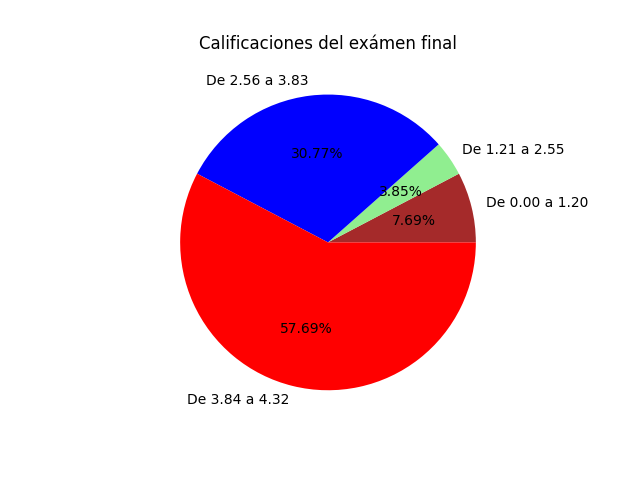
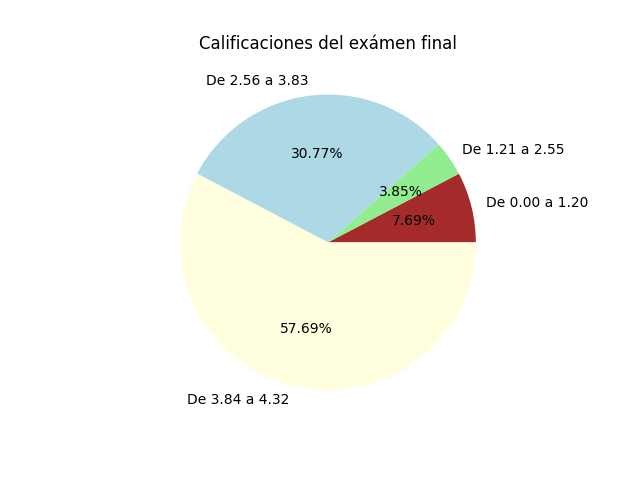
#Importamos la librería Matplotlib.pyplot para los gráficos import matplotlib.pyplot as plt
#Importamos la librería Matplotlib.colors para los colores
import matplotlib.colors as colors

#Abrimos el archivo en modo lectura
pers = open('personeria.txt', 'r')

#Leemos las lineas del archivo
lista = pers.readlines()

#Cerramos el archivo
pers.close()

#Imprimimos el contenido del archivo
print(
    "\nEn un colegio se hicieron las votaciones a personería, y los resultados fueron los siguientes: \n",
    lista, "\n")

#Relacionamos las líneas con una variable para operar a continuación
nom1 = (lista[0].rstrip())
num1 = (lista[1].rstrip())
nom2 = (lista[2].rstrip())
num2 = (lista[3].rstrip())
nom3 = (lista[4].rstrip())
num3 = (lista[5].rstrip())
nom4 = (lista[6].rstrip())
num4 = (lista[7].rstrip())
nom5 = (lista[8].rstrip())
num5 = (lista[9].rstrip())

#Creamos el diccionario y relacionamos las variables
votos1 = {
    nom1: int(num1),
    nom2: int(num2),
    nom3: int(num3),
    nom4: int(num4),
    nom5: int(num5)
}

#Imprimimos el diccionario
print("\nEl resumen de los votos es: \n", votos1, "\n")

#Definimos los colores a utilizar en la gráfica
colores = ["lightblue", "lightgreen", "lightyellow", "pink", "orange"]

#Creamos la gráfica y relacionamos los valores y colores
plt.bar(votos1.keys(), votos1.values(), color=colores)

#Damos nombre al eje X
plt.xlabel('Candidatos')

#Damos nombre al eje Y
plt.ylabel('Cantidad de votos a favor')

#Damos nombre a la gráfica
plt.title('Votaciones a personería')

#Guardamos el nuevo archivo en formato PNG
[…]

Changed region(s): [[0.2812, 0.1875, 0.75, 0.8125]]

diff --git a/main.py b/main.py
@@ -43,7 +43,7 @@ votos1 = {
 print("\nEl resumen de los votos es: \n", votos1, "\n")
 
 #Definimos los colores a utilizar en la gráfica
-colores = ["blue", "green", "yellow", "pink", "violet"]
+colores = ["lightblue", "lightgreen", "lightyellow", "pink", "orange"]
 
 #Creamos la gráfica y relacionamos los valores y colores
 plt.bar(votos1.keys(), votos1.values(), color=colores)
@@ -99,7 +99,7 @@ datitos = {
 print("\nLos datos del diccionario son: \n", datitos, "\n")
 
 #Definimos los colores a utilizar en la gráfica
-col = ["brown", "lightgreen", "blue", "red"]
+col = ["brown", "lightgreen", "lightblue", "lightyellow"]
 
 #Creamos la gráfica y relacionamos los valores y colores
 plt.pie(datitos.values(),
